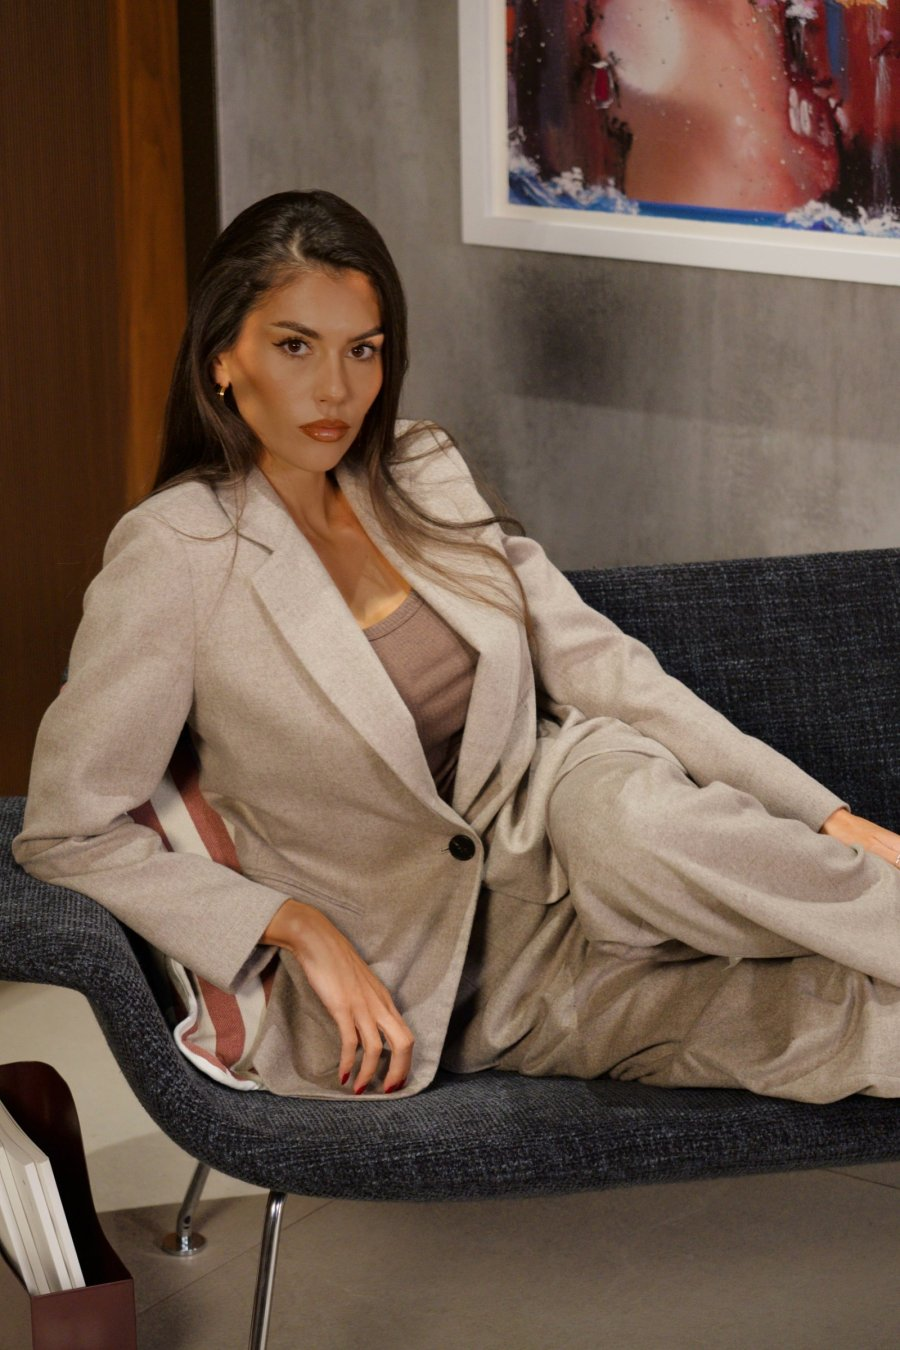
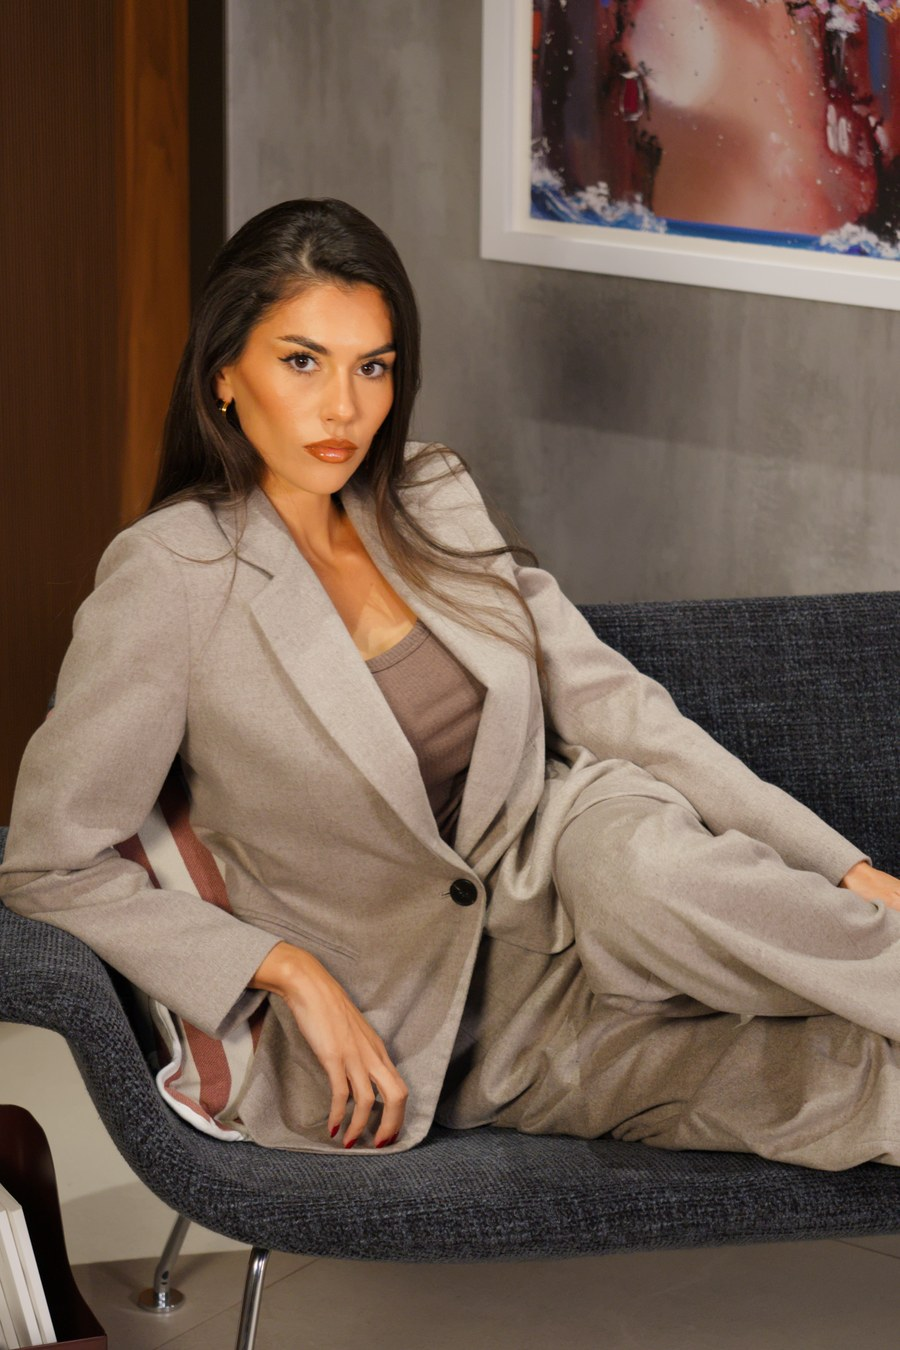
k05: Anabelle gallery uses the two new office photos (02072, 02074) in place of 02069; office tile phone crop refreshed

diff --git a/assets/products.js b/assets/products.js
@@ -70,6 +70,8 @@ window.MORGANA = (function () {
   // 16 Nov (Angelica): two Regina photos are enough; the red roll-neck (18) is from an older collection, so it is not listed.
   sov[18].images = ["19-0", "20-0"].map(S);
   sov[17].hidden = true;
+  // 18 Nov (Faisal): Anabelle shows the two blue-flagged office photos in place of DSC02069: 01-5 is now DSC02072, 01-8 is DSC02074.
+  sov[0].images = ["01-0", "01-1", "01-2", "01-3", "01-4", "01-5", "01-8", "01-6", "01-7"].map(S);
 
   const lum = ["Isla Lace Skirt", "Capri Shirt Set", "Positano Shirt Dress", "Riviera Linen Set", "Marais Waistcoat Set",
     "Juliette Culotte Set", "Saint-Germain Short Suit", "Nuit Satin Bomber", "Nuit Zip Set", "Trocadéro Dot Dress",
